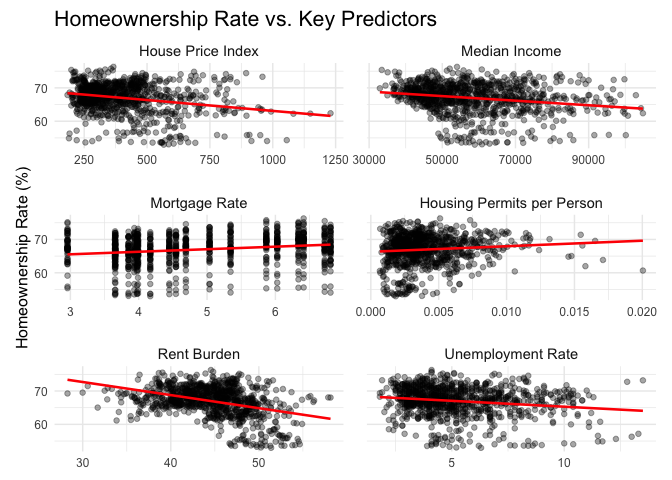
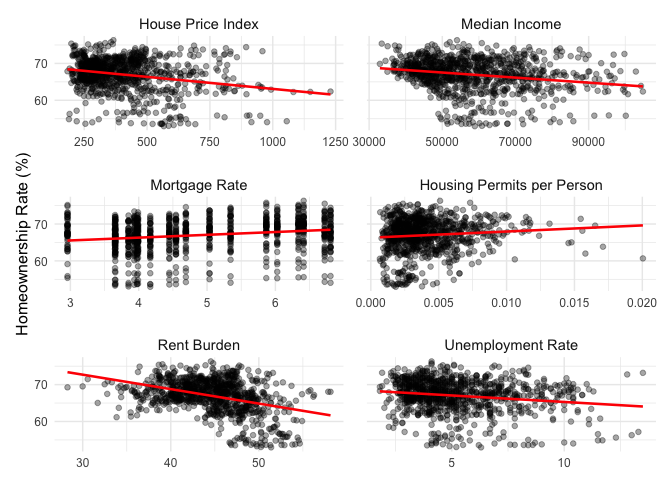
Cleaning, etc.
Fixed some typos and rewrote the conclusion. Plus some other stuff.

diff --git a/README.md b/README.md
@@ -133,8 +133,8 @@ The average state had a population of 6.3 million, a median income of
 approximately \$58,000, and an unemployment rate of 5.3 percent over the
 analysis timeframe. The average state homeownership rate was 67 percent,
 while the average national mortgage rate was 4.86 percent. An average of
-just 0.004 housing permits were issued on annual basis per person, and
-44 percent of the state population was rent burdened, on average.
+just 0.004 housing permits were issued on an annual basis per person,
+and 44 percent of the state population was rent burdened, on average.
 
 The homeownership rate ranged from 52 percent to 76 percent, with a
 standard deviation of 4.4 percent. The fact that the average
@@ -145,13 +145,13 @@ percent) were similar, suggests that the distribution is roughly normal
 Several potential drivers of the homeownership rate showed substantial
 variation across the analysis timeframe. The mortgage rate ranged from 3
 to 6.8 percent with a standard deviation of 1.2 percent; the housing
-price index ranged from 184to 1,230, with a standard deviation of 164;
+price index ranged from 184 to 1,230, with a standard deviation of 164;
 and rent burden ranged from 28.3 to 58.1 percent with a standard
 deviation of 4.4 percent. The variation of these variables in our sample
 will allow us to meaningfully test their influence on the homeownership
 rate.
 
-### **Plot Histograms of Key Variables:**
+### **Figure 1. Histograms of Key Variables**
 
 ![](README_files/figure-gfm/figure_1-1.png)<!-- -->
 
@@ -177,10 +177,10 @@ their counterparts.
 
 Housing permits per person also had a noticeable righthand tail, with
 the majority of values being generally quite low. This suggests that a
-few states were issuing permits faster (on a per person basis) a
-significantly faster than other states and that it is infrequent to
-generally see high levels of permits given that even the outliers were
-relatively low in count.
+few states were issuing permits at a significantly faster per-person
+rate than other states and that it is infrequent to generally see high
+levels of permits given that even the outliers were relatively low in
+count.
 
 The fact that population and the unemployment rate were also both
 right-skewed is as expected. A handful of states (California, Texas,
@@ -190,7 +190,7 @@ during economic recessions.
 
 # Data Analytics
 
-### **Key Trends Over Time:**
+### **Figure 2. Key Trends Over Time:**
 
 ![](README_files/figure-gfm/figure_2-1.png)<!-- --> Figure 2 shows broad
 time trends in average state homeownership rates, house price index
@@ -219,14 +219,14 @@ borrowing costs. Together, these trends suggest that homeownership
 affordability is shaped by multiple pressures at once rather than by any
 single variable alone.
 
-### **Correlation Matrix:**
+### **Figure 3. Correlation Matrix:**
 
 ![](README_files/figure-gfm/figure_3-1.png)<!-- -->
 
 Figure 3, the correlation heatmap provides an initial look at the
 relationships among different variables before moving into regression
 analysis. Homeownership has negative correlations with population, rent
-burden, house price index, median income, and unemployment, indicates
+burden, house price index, median income, and unemployment, indicating
 that states with larger populations, higher housing costs, and greater
 rental affordability pressure tend to have lower homeownership rates.
 Homeownership rate’s moderately negative correlation with population and
@@ -250,6 +250,8 @@ correlations help motivate the use of multivariable regression, since
 homeownership is related to several overlapping economic and housing
 market conditions rather than one factor in isolation.
 
+### **Figure 4. Homeownership Rate vs. Key Predictors**
+
 ![](README_files/figure-gfm/figure_4-1.png)<!-- -->
 
 Figure 4 compares homeownership rates with several key predictors using
@@ -272,6 +274,8 @@ slightly positive trend lines in this figure, but these relationships
 should be interpreted cautiously because they do not account for
 differences across states, changes over time, or other overlapping
 economic conditions.
+
+### **Figure 5. Homeownership Rate by State**
 
 ![](README_files/figure-gfm/figure_5-1.png)<!-- -->
 
@@ -459,38 +463,35 @@ to model noise.
     ## =================================================================
     ##                                      Homeownership Rate          
     ## -----------------------------------------------------------------
-    ## Mortgage Rate                              -0.13*                
-    ##                                            (0.07)                
+    ## Mortgage Rate                            -91.49***               
+    ##                                           (20.12)                
     ##                                                                  
-    ## Lagged Mortgage Rate (1)                  0.22***                
-    ##                                            (0.09)                
+    ## Lagged Mortgage Rate (1)                  43.69***               
+    ##                                            (9.60)                
     ##                                                                  
-    ## Lagged Mortgage Rate (2)                    0.07                 
-    ##                                            (0.08)                
+    ## Lagged Mortgage Rate (2)                 -30.09***               
+    ##                                            (6.64)                
     ##                                                                  
-    ## House Price Index                         0.60***                
-    ##                                            (0.15)                
-    ##                                                                  
-    ## Median Income                              0.002*                
+    ## House Price Index                         0.002**                
     ##                                           (0.001)                
     ##                                                                  
-    ## Unemployment Rate                          0.0000                
+    ## Median Income                              0.0000                
     ##                                           (0.0000)               
     ##                                                                  
-    ## Rent Burden                                -0.04                 
+    ## Unemployment Rate                          -0.06                 
     ##                                            (0.04)                
     ##                                                                  
-    ## Housing Permits per Person                0.06***                
+    ## Rent Burden                               0.08***                
     ##                                            (0.02)                
     ##                                                                  
-    ## perm_per_person                          114.42***               
-    ##                                           (30.52)                
+    ## Housing Permits per Person                91.45***               
+    ##                                           (29.83)                
     ##                                                                  
-    ## N                                           800                  
+    ## N                                           850                  
     ## R2                                          0.97                 
     ## Adjusted R2                                 0.97                 
-    ## Residual Std. Error                   0.80 (df = 730)            
-    ## F Statistic                       339.23*** (df = 69; 730)       
+    ## Residual Std. Error                   0.82 (df = 779)            
+    ## F Statistic                       341.97*** (df = 70; 779)       
     ## =================================================================
     ## Notes:                     ***Significant at the 1 percent level.
     ##                             **Significant at the 5 percent level.
@@ -512,38 +513,32 @@ percent level.
     ## =================================================================
     ##                                      Homeownership Rate          
     ## -----------------------------------------------------------------
-    ## Mortgage Rate                              -0.13*                
-    ##                                            (0.07)                
+    ## Mortgage Rate                             -5.86***               
+    ##                                            (1.27)                
     ##                                                                  
-    ## Lagged Mortgage Rate (1)                  0.22***                
-    ##                                            (0.09)                
-    ##                                                                  
-    ## House Price Index                           0.07                 
-    ##                                            (0.08)                
-    ##                                                                  
-    ## Median Income                             0.60***                
+    ## Lagged Mortgage Rate (1)                  -0.38**                
     ##                                            (0.15)                
     ##                                                                  
-    ## Unemployment Rate                          0.002*                
+    ## House Price Index                         0.002**                
     ##                                           (0.001)                
     ##                                                                  
-    ## Rent Burden                                0.0000                
+    ## Median Income                              0.0000                
     ##                                           (0.0000)               
     ##                                                                  
-    ## Housing Permits per Person                 -0.04                 
+    ## Unemployment Rate                         -0.08**                
     ##                                            (0.04)                
     ##                                                                  
-    ## rent_burden                               0.06***                
+    ## Rent Burden                               0.10***                
     ##                                            (0.02)                
     ##                                                                  
-    ## perm_per_person                          114.42***               
-    ##                                           (30.52)                
+    ## Housing Permits per Person                91.04***               
+    ##                                           (27.69)                
     ##                                                                  
-    ## N                                           800                  
+    ## N                                           900                  
     ## R2                                          0.97                 
     ## Adjusted R2                                 0.97                 
-    ## Residual Std. Error                   0.80 (df = 730)            
-    ## F Statistic                       339.23*** (df = 69; 730)       
+    ## Residual Std. Error                   0.83 (df = 828)            
+    ## F Statistic                       353.64*** (df = 71; 828)       
     ## =================================================================
     ## Notes:                     ***Significant at the 1 percent level.
     ##                             **Significant at the 5 percent level.
@@ -564,7 +559,7 @@ reduction shown in model 1). The second notable change was to the
 housing permits per person variable. In Model 4, a 0.1 increase in
 annual housing permits per person is associated with a 9.1 percentage
 point increase in homeownership rate (compared to the 7.7 percentage
-point reduction shown in Model 1).
+point increase shown in Model 1).
 
 Model 4 is our preferred model. We believe there is strong theoretical
 justification that the mortgage rate would have a delayed effect on the
@@ -582,7 +577,7 @@ in magnitude, but not to an unreasonable degree.
 ### **Compare Models**
 
     ## 
-    ## Table 6: Regression Comparisons)
+    ## Table 6: Regression Comparisons
     ## ==============================================================================================================================
     ##                                                                    Homeownership Rate                                         
     ##                                      OLS                  OLS - 3 Lags             OLS - 2 Lags             OLS - 1 Lag       
@@ -625,8 +620,9 @@ in magnitude, but not to an unreasonable degree.
     ##                                                                                          **Significant at the 5 percent level.
     ##                                                                                          *Significant at the 10 percent level.
 
-The above table depicts all of the models side-by-side for comparison
-Our preferred model, Model 4, is show in the column furthest right.
+Table 6 shows all four regression models side-by-side for comparison.
+Our preferred model, Model 4, is shown in the column furthest to the
+right.
 
 # Conclusion
 
@@ -638,41 +634,52 @@ homeownership rates, median income, population, rent burden, mortgage
 rates, house price index values, unemployment rates, and housing permits
 per person. We used descriptive visualizations, correlation analysis,
 state-level distribution plots, multicollinearity checks, and regression
-models to study both broad trends and more specific relationships among
-these variables.
+models to study both broad housing market patterns and more specific
+relationships among these variables.
 
-The analysis shows that homeownership rates vary meaningfully across
-both time and states. Average homeownership declined from the mid-2000s
-into the mid-2010s before partially recovering in the late 2010s and
-early 2020s. However, this recovery occurred alongside a sharp rise in
-house price index values and, after 2021, a rapid increase in mortgage
-rates. This suggests that the current housing environment is shaped by
-multiple affordability pressures at once: households face not only
-higher home prices, but also higher borrowing costs.
+The descriptive analysis shows that homeownership rates vary
+meaningfully across both time and states. Average homeownership declined
+from the mid-2000s into the mid-2010s before partially recovering in the
+late 2010s and early 2020s. However, this recovery occurred alongside a
+sharp rise in house price index values and, after 2021, a rapid increase
+in mortgage rates. This suggests that the current housing environment is
+shaped by multiple affordability pressures at once: households face not
+only higher home prices, but also higher borrowing costs.
 
-Several patterns from the visual analysis help clarify the broader
-story. The correlation heatmap and scatterplots suggest that
-homeownership tends to be lower in states with higher population, higher
-rent burden, higher house price index values, and higher unemployment.
-Rent burden appears especially important because it connects the rental
-and ownership sides of the housing market: states where renters are
-already financially strained may also be states where households have
-more difficulty moving into ownership. The box plot by state also shows
-substantial geographic variation, with states such as New York,
-California, Nevada, Hawaii, and Rhode Island consistently showing lower
-homeownership rates than many other states.
+Several visual patterns support this broader affordability story. The
+correlation heatmap and scatterplots suggest that homeownership tends to
+be lower in states with higher population, higher rent burden, higher
+house price index values, and higher unemployment. Rent burden appears
+especially important because it connects the rental and ownership sides
+of the housing market: states where renters are already financially
+strained may also be states where households have more difficulty moving
+into ownership. The box plot by state also shows substantial geographic
+variation, with states such as New York, California, Nevada, Hawaii, and
+Rhode Island consistently showing lower homeownership rates than many
+other states.
 
-The regression analysis adds further support to the idea that
-homeownership is influenced by several overlapping economic and housing
-market conditions. Mortgage rates are generally negatively associated
-with homeownership, especially in the baseline and controlled models,
-which is consistent with the idea that higher borrowing costs reduce
-access to ownership. Housing supply, measured through housing permits
-per person, appears positively associated with homeownership in the
-models, suggesting that states with more residential construction
-activity may have stronger ownership outcomes. Rent burden and
-unemployment also provide important context, although some relationships
-are more complex once controls and lagged variables are included.
+The regression analysis provides stronger evidence that homeownership is
+shaped by several overlapping economic and housing market conditions.
+Model 4 is our preferred model because it includes a one-year lag of the
+mortgage rate, which is theoretically reasonable given that households
+do not respond to borrowing costs instantly. Buying a home requires
+saving, searching, financing, and closing, so mortgage rates may
+influence homeownership with some delay. Compared with the models using
+two or three mortgage-rate lags, Model 4 produced more interpretable and
+theoretically consistent results. The current mortgage rate and one-year
+lagged mortgage rate were both negatively associated with homeownership,
+while housing permits per person were positively associated with
+homeownership.
+
+Overall, Model 4 suggests that higher borrowing costs are associated
+with lower homeownership rates, while greater housing supply is
+associated with higher homeownership rates. This finding is especially
+relevant for HUD because it points to two major policy areas: reducing
+affordability barriers created by high mortgage rates and increasing the
+supply of available housing. While housing prices, rent burden,
+unemployment, and income also matter, the strongest policy implication
+from our preferred model is that homeownership access depends on both
+the cost of financing and the availability of housing.
 
 There are several limitations to this analysis. First, the project uses
 observational data, so the results should be interpreted as associations
@@ -689,9 +696,11 @@ Future work could improve the analysis by incorporating more localized
 data at the county or metropolitan level, adding measures of housing
 inventory and new construction completions, and exploring differences by
 household income, race, age, or first-time buyer status. Additional
-modeling could also test fixed effects more deeply, examine regional
-differences, or use causal inference methods to better isolate the
-effects of policy-relevant housing market changes.
+modeling could also test regional differences or use causal inference
+methods to better isolate the effects of policy-relevant housing market
+changes. Even with these limitations, the analysis suggests that HUD
+should focus on policies that address both affordability and supply,
+especially in states where homeownership rates remain persistently low.
 
 # Policy Recommendation
 